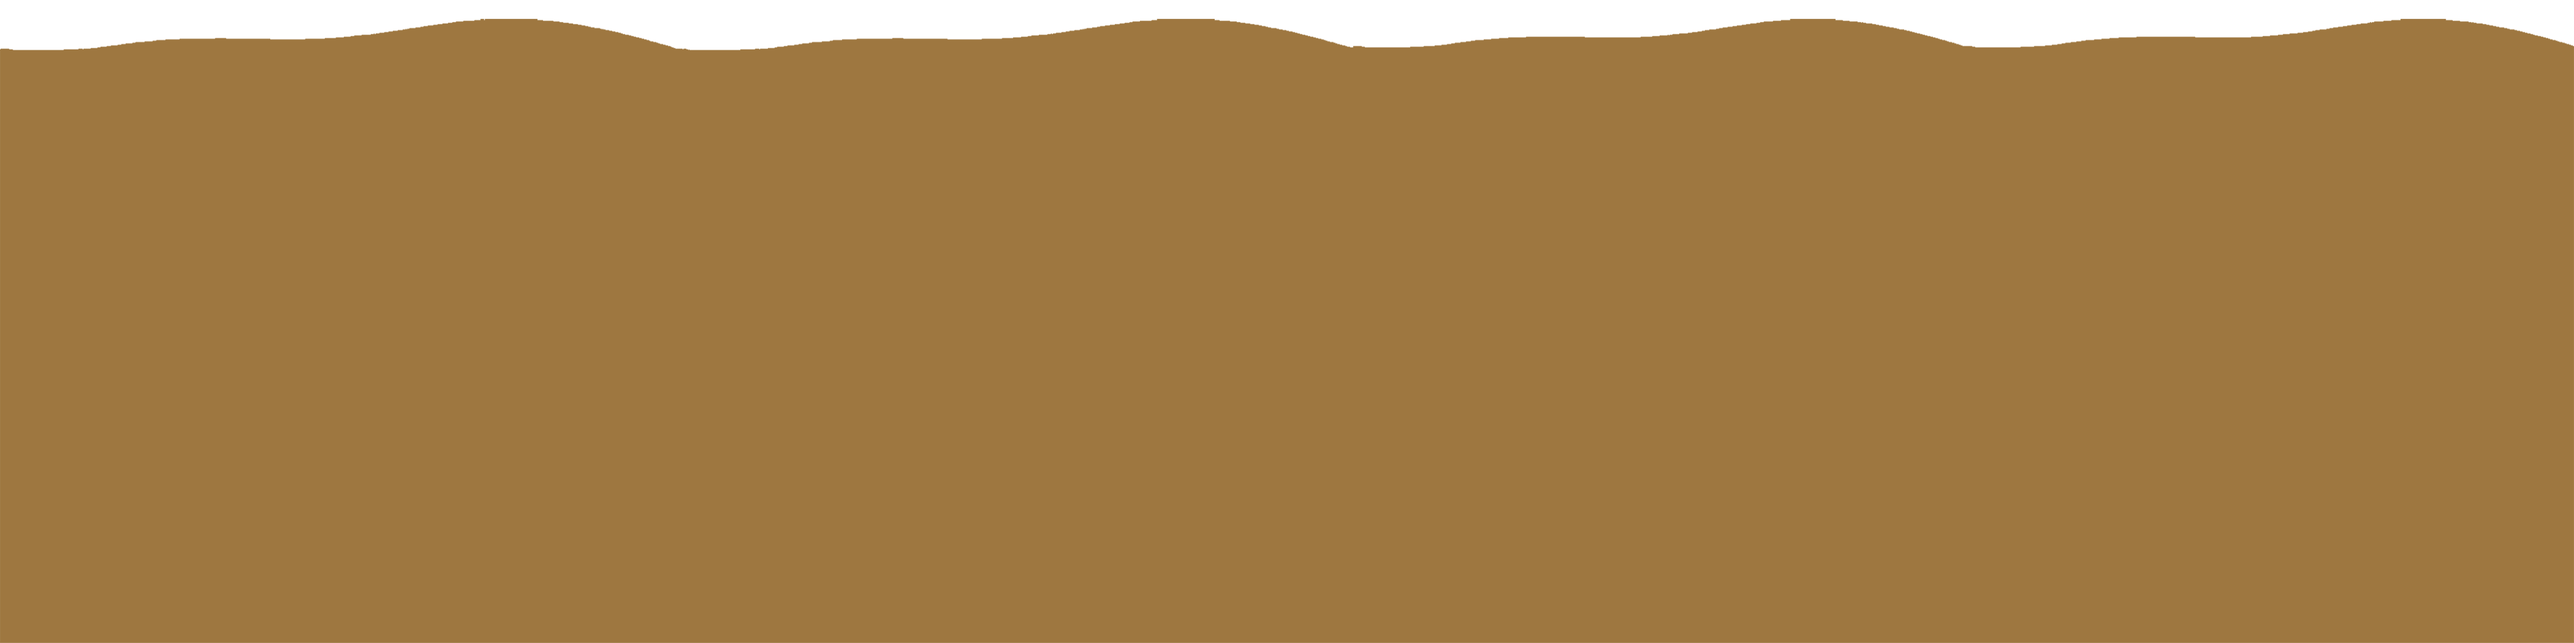
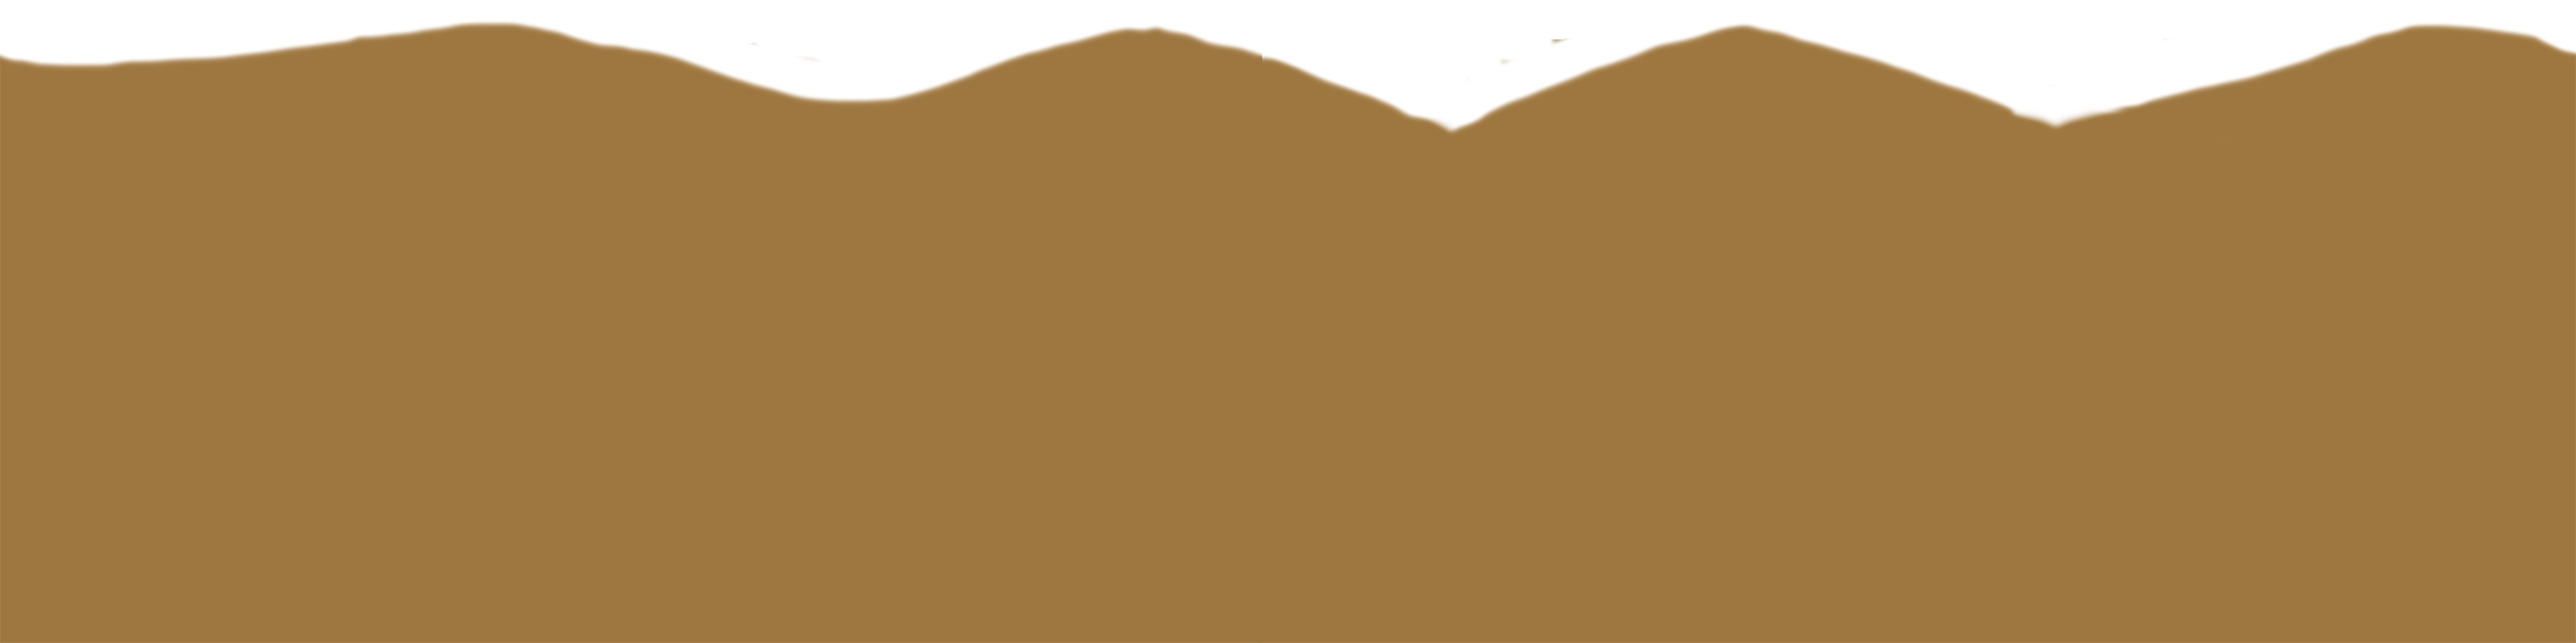
taustoja muokattu, assetteja lisätty

Changed region(s): [[0.0, 0.0312, 1.0, 0.2188]]

diff --git a/core/src/com/mygdx/game/Asset.java b/core/src/com/mygdx/game/Asset.java
@@ -5,14 +5,17 @@ import com.badlogic.gdx.math.MathUtils;
 import com.badlogic.gdx.math.Vector2;
 
 public class Asset extends GameObject {
-    public Asset(GameScreen game,Float xPercentage, Texture texture)  {
+
+    public Asset(GameScreen game,Float xPercentage, Texture texture, float scaleX, float scaleY)  {
         super(game);
         setTexture(texture);
 
-        setWidth(getWidth()*0.5f);
-        setHeight(getHeight()*0.5f);
+        setWidth(getWidth()*scaleX);
+        setHeight(getHeight()*scaleY);
         setLocationInLevel(xPercentage, game.getLevelCreator());
     }
+
+
 
     public void setLocationInLevel(Float xPercentage, LevelCreator2 levelCreator) {
         float absolutePos = xPercentage*(levelCreator.lastX/100);
@@ -32,6 +35,12 @@ public class Asset extends GameObject {
                     Vector2 angle = new Vector2(oneAfter.x-oneBefore.x, oneAfter.y-oneBefore.y);
                     System.out.println("kulma: "+angle.angle());
                     if(angle.angle()<45f||angle.angle()>300f){
+                        if(oneBefore.x<absolutePos){
+                            setLocation(absolutePos-(getWidth()/2), y-0.1f);
+                            System.out.println("set "+absolutePos+"  "+y);
+                        }else {
+                            setLocation(oneAfter.y, oneAfter.x);
+                        }
                         setLocation(absolutePos-(getWidth()/2), y-0.1f);
                         System.out.println("set "+absolutePos+"  "+y);
                         found = true;
@@ -51,4 +60,6 @@ public class Asset extends GameObject {
 
         }
     }
+
+
 }

diff --git a/core/src/com/mygdx/game/GameScreen.java b/core/src/com/mygdx/game/GameScreen.java
@@ -70,17 +70,17 @@ public class GameScreen extends NewScreen {
 
         switch (levelnum){
             case 1:
-                modules = levelCreator.createModules( "rata1.svg","lumitausta.png",Color.GRAY);
+                modules = levelCreator.createModules( "rata2.svg","lumitausta.png",Color.GRAY);
                 assets = levelCreator.createAssets("kuusi3.png",new float[]{5,10,20,30,40,50,60,70,80,90});
                 background = new Background(this,"tausta4taso1.jpg","tausta4taso2.png","tausta4taso3.png");
                 break;
             case 2:
-                modules = levelCreator.createModules( "test14.svg","aavikkotausta.png",Color.TAN);
-                assets = levelCreator.createAssets("puu1.png",new float[]{5,10,11,37,66,55,45,20,30,40,50,60,70,80,90});
+                modules = levelCreator.createModules( "rata3.svg","aavikkotausta.png",Color.TAN);
+                assets = levelCreator.createAssets("kaktus.png",new float[]{5,4.5f,7,10,11,37,66,55,45,20,30,40,50,60,70,80,90});
                 background = new Background(this,"tausta3taso1.jpg","tausta3taso2.png","tausta3taso3.png");
                 break;
             case 3:
-                modules = levelCreator.createModules( "rata3.svg","tausta.png",Color.BROWN);
+                modules = levelCreator.createModules( "rata8.svg","tausta.png",Color.BROWN);
                 background = new Background(this,"tausta2taso1.jpg","tausta2taso2.png","tausta2taso3.png");
                 assets = levelCreator.createAssets("puu2.png",new float[]{5,10,20,30,40,50,60,70,80,90});
                 break;

diff --git a/core/src/com/mygdx/game/LevelCreator2.java b/core/src/com/mygdx/game/LevelCreator2.java
@@ -200,7 +200,10 @@ public class LevelCreator2 {
         ArrayList<Asset> assets = new ArrayList<Asset>();
         Texture texture = new Texture("trees/"+fileName);
         for(int i = 0; i<xs.length; i++){
-            assets.add(new Asset(game, xs[i], texture));
+            float x =(0.4f+(float)(Math.random()*0.2f));
+           float y= (0.4f+(float)(Math.random()*0.2f));
+            assets.add(new Asset(game, xs[i], texture,x,y));
+
         }
         return assets;
     }

diff --git a/core/src/com/mygdx/game/NewScreen.java b/core/src/com/mygdx/game/NewScreen.java
@@ -214,7 +214,7 @@ public class NewScreen implements Screen {
     public void dispose() {
         gameStage.dispose();
         //uiSkin.dispose();
-        font48.dispose();
+        //font48.dispose();
         generator.dispose();
         if(background!= null){
             background.dispose();
